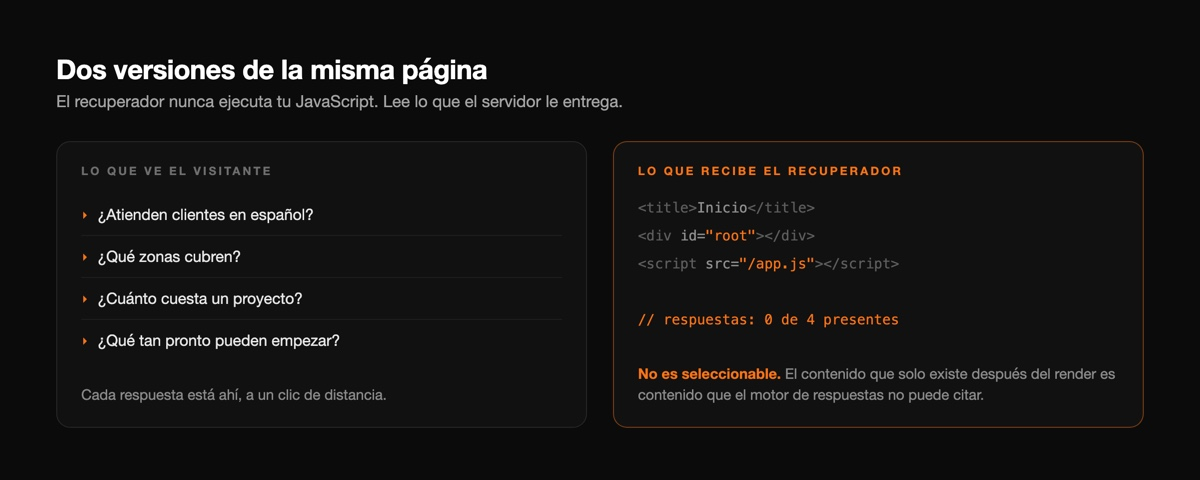
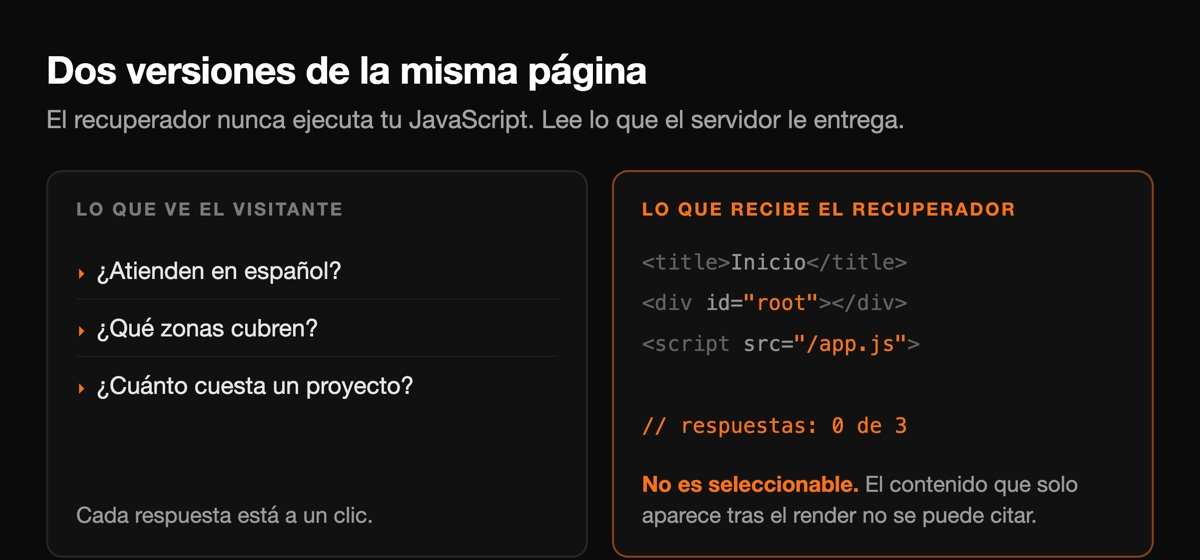
Enlarge type in blog diagrams so they read at the 672px body width
The body column is max-w-2xl, so a 1200px graphic renders at 0.56 scale
and 14px source type landed near 8px on screen. Rebuilt both inline
comparison diagrams with type sized for the real render width (trimmed
to three questions to make room) and bumped the caption and subhead
sizes on both covers. Alt text updated to match.

diff --git a/app/lib/posts.tsx b/app/lib/posts.tsx
@@ -399,7 +399,7 @@ export const posts: Post[] = [
 
         <img
           src="/work/retriever-vs-visitor-page.jpg"
-          alt="Side by side comparison showing four FAQ questions a visitor sees in an accordion versus the bare HTML a retriever receives, with a note that zero of four answers are present"
+          alt="Side by side comparison showing three FAQ questions a visitor sees in an accordion versus the bare HTML a retriever receives, with a note that zero of three answers are present"
         />
 
         <p>
@@ -631,7 +631,7 @@ export const posts: Post[] = [
 
         <img
           src="/work/recuperador-vs-visitante-pagina.jpg"
-          alt="Comparación lado a lado entre las cuatro preguntas frecuentes que ve un visitante en un acordeón y el HTML pelado que recibe un recuperador, con la nota de que ninguna de las cuatro respuestas está presente"
+          alt="Comparación lado a lado entre las tres preguntas frecuentes que ve un visitante en un acordeón y el HTML pelado que recibe un recuperador, con la nota de que ninguna de las tres respuestas está presente"
         />
 
         <p>
